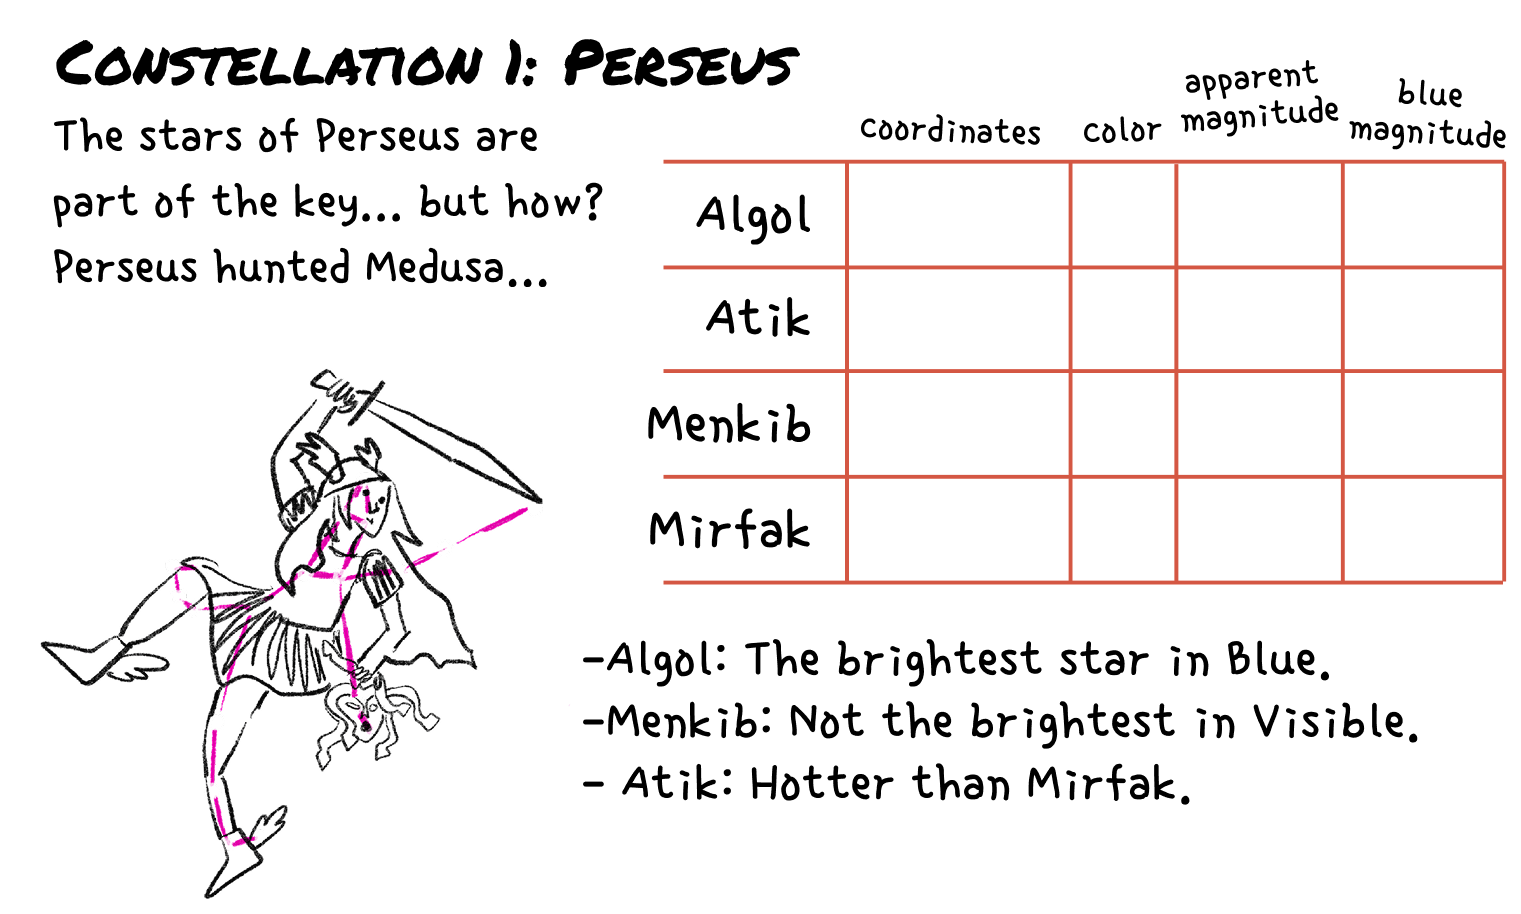
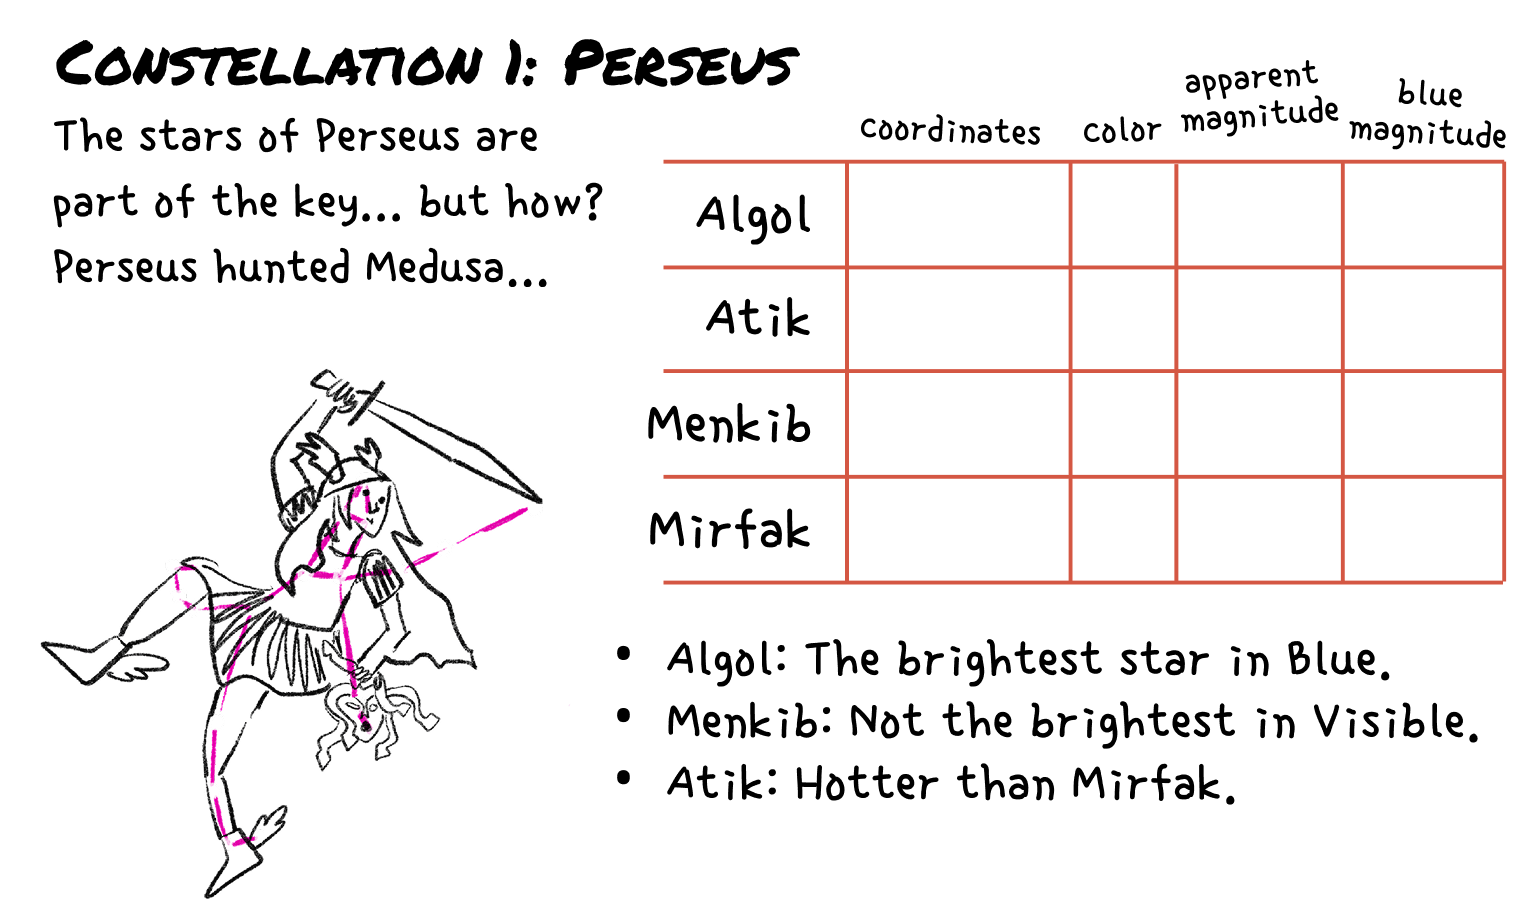
* script updates 🖊 + new constellation pages in ref guide * update to postcard assets

Changed region(s): [[0.3708, 0.7046, 0.9579, 0.8884]]

diff --git a/Assets/Code/Reference/RefGuideState.cs b/Assets/Code/Reference/RefGuideState.cs
@@ -658,6 +658,12 @@ namespace Astro.Reference {
             LoadPage(pageId);
         }
 
+        [LeafMember("OpenRefGuideToPage")]
+        private static void LeafOpenRefGuidePage(int pageNum) {
+            SetReferenceActive(true);
+            LoadPage(pageNum);
+        }
+
         [LeafMember("SetStickyFirstPage")]
         private static void LeafSetStickyFirstPage(int pageNum) {
             RefGuideState refGuideState = Find.State<RefGuideState>();
